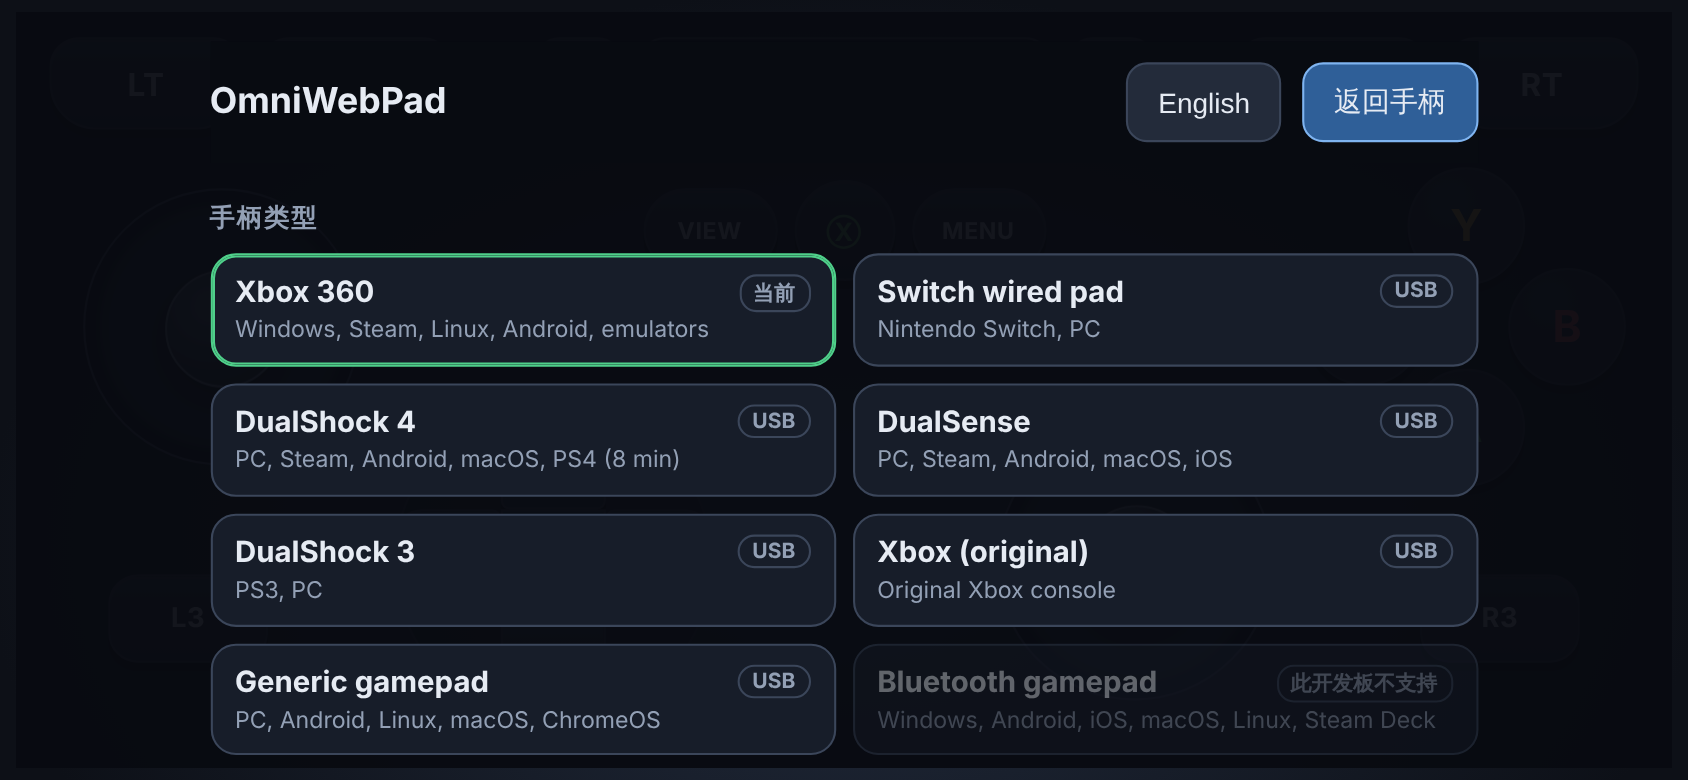
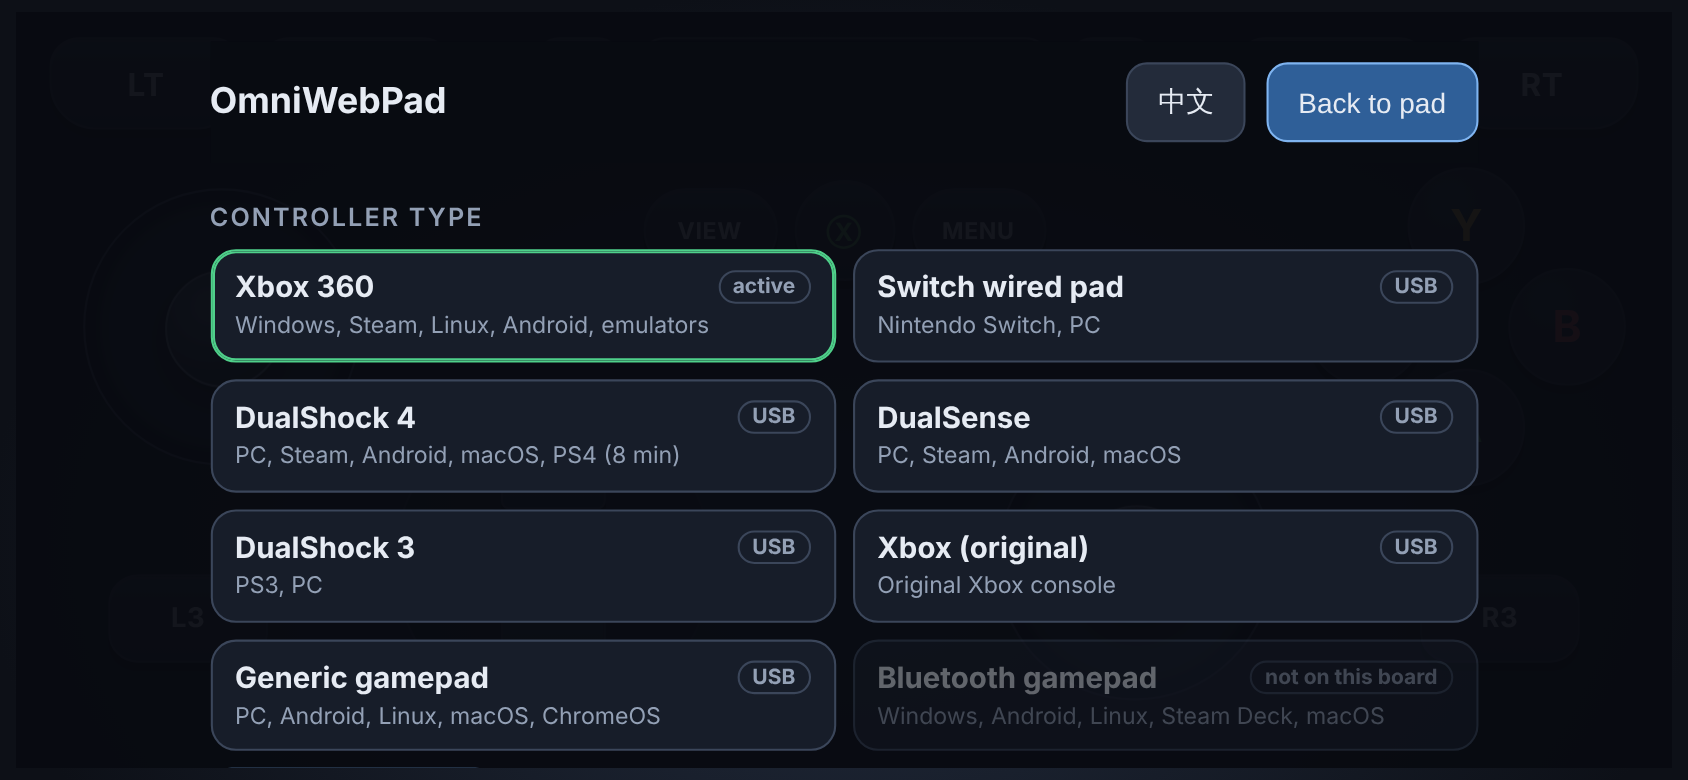
Tighten host compatibility claims, rate-limit remote wake-up
Drop iOS from the DualSense and Bluetooth host lists (Apple only accepts
specific controller models), add an English settings screenshot, and ask
a suspended host to wake at most ten times a second.

Claude-Session: https://claude.ai/code/session_01Bond4v4vZZhAw4zqvh2pe6

Changed region(s): [[0.1232, 0.2462, 0.8626, 0.9846], [0.5237, 0.8615, 0.8626, 0.9538], [0.6777, 0.0615, 0.8626, 0.1846]]

diff --git a/firmware/core/modes/dualsense.c b/firmware/core/modes/dualsense.c
@@ -1,5 +1,5 @@
 // Sony DualSense (CFI-ZCT1). For PCs and phones: Steam, SDL, Linux
-// hid-playstation, Android 12+, macOS/iOS. A PS5 console does not accept
+// hid-playstation, Android 12+, macOS. A PS5 console does not accept
 // unlicensed controllers, so this personality is not for consoles.
 #include "../mode.h"
 #include <string.h>
@@ -92,7 +92,7 @@ static void reset(void) { sequence = 0; }
 
 const pad_mode_t mode_dualsense = {
     .id = "dualsense", .name = "DualSense", .family = "ps",
-    .hosts = "PC, Steam, Android, macOS, iOS",
+    .hosts = "PC, Steam, Android, macOS",
     .link = PAD_LINK_USB_HID,
     .device_desc = device_desc, .config_desc = config_desc, .config_len = sizeof(config_desc),
     .report_desc = report_desc, .report_desc_len = sizeof(report_desc),

diff --git a/firmware/usb/usb_link.c b/firmware/usb/usb_link.c
@@ -181,9 +181,13 @@ void usb_link_task(void) {
     uint32_t now = plat_millis();
     if (tud_suspended()) {
         // Any pressed button wakes a sleeping host, like a real pad.
+        static uint32_t last_wake;
         pad_state_t peek;
         app_next_state(&peek);
-        if (peek.buttons) tud_remote_wakeup();
+        if (peek.buttons && now - last_wake >= 100) {
+            last_wake = now;
+            tud_remote_wakeup();
+        }
         return;
     }
     if (now - last_send < app_mode->interval_ms || !tud_ready()) return;

diff --git a/firmware/core/modes/generic.c b/firmware/core/modes/generic.c
@@ -61,7 +61,7 @@ const pad_mode_t mode_hid = {
 
 const pad_mode_t mode_ble = {
     .id = "ble", .name = "Bluetooth gamepad", .family = "generic",
-    .hosts = "Windows, Android, iOS, macOS, Linux, Steam Deck",
+    .hosts = "Windows, Android, Linux, Steam Deck, macOS",
     .link = PAD_LINK_BLE_HID,
     .report_desc = pad_ble_report_desc, .report_desc_len = sizeof(pad_ble_report_desc),
     .manufacturer = "OmniWebPad", .product = "OmniWebPad",

diff --git a/README.md b/README.md
@@ -23,11 +23,11 @@ Formerly *PS3 Pico W Webpad*. Version 0.4 keeps the PS3 controller and adds seve
 | **Xbox 360** (XInput) | Windows (native), Steam, Linux, Android, most emulators | Xbox 360 / One / Series consoles — they demand a security-chip handshake | Rumble, player LED |
 | **Switch wired pad** (HORI Pokkén layout) | Nintendo Switch with *Pro Controller Wired Communication* on, PC | Motion, rumble, NFC | — |
 | **DualShock 4** | Windows/Steam, Linux, Android, macOS; PS4 for about 8 minutes at a time | Lasting PS4 use — the console drops unlicensed pads without a signed reply | Rumble, light bar colour |
-| **DualSense** | Steam, Linux, Android 12+, macOS, iOS | PS5 console (licensed controllers only) | Rumble, player LEDs, light bar colour |
+| **DualSense** | Steam, Linux, Android 12+, macOS | PS5 console (licensed controllers only) | Rumble, player LEDs, light bar colour |
 | **DualShock 3** | PlayStation 3, PC | — | Rumble, player LED |
 | **Xbox (original)** | Original Xbox through a controller-port-to-USB cable | — | Rumble |
 | **Generic gamepad** (HID) | Android, Linux, macOS, ChromeOS, Windows (DirectInput) | — | — |
-| **Bluetooth gamepad** (BLE HID) | Windows, Android, iOS/iPadOS, macOS, Linux, Steam Deck — no cable | Consoles | — |
+| **Bluetooth gamepad** (BLE HID) | Windows, Android, Linux, Steam Deck, macOS — no cable | Consoles; iOS/iPadOS (Apple only accepts specific controller models) | — |
 
 Buttons are mapped by position: the bottom face button is always the bottom face button (✕ / A / Switch B). The page relabels and recolours itself for the active controller.
 
